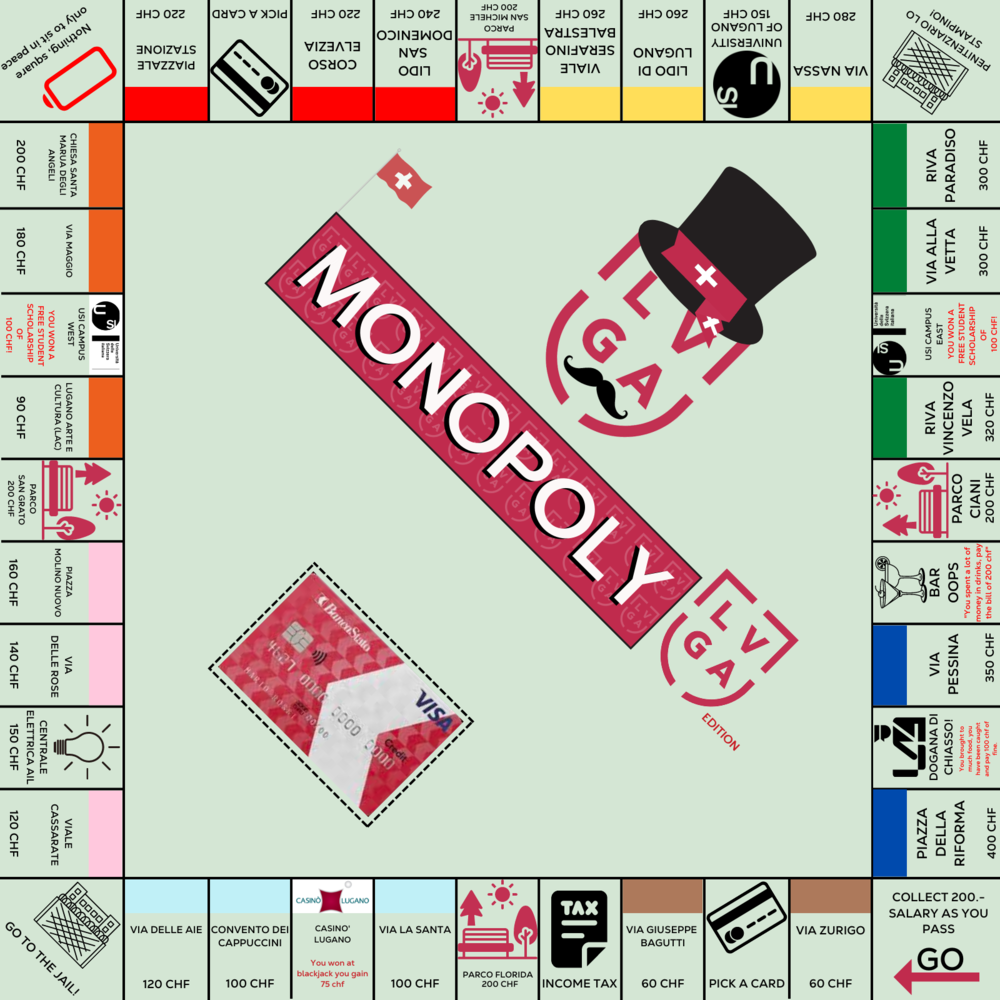
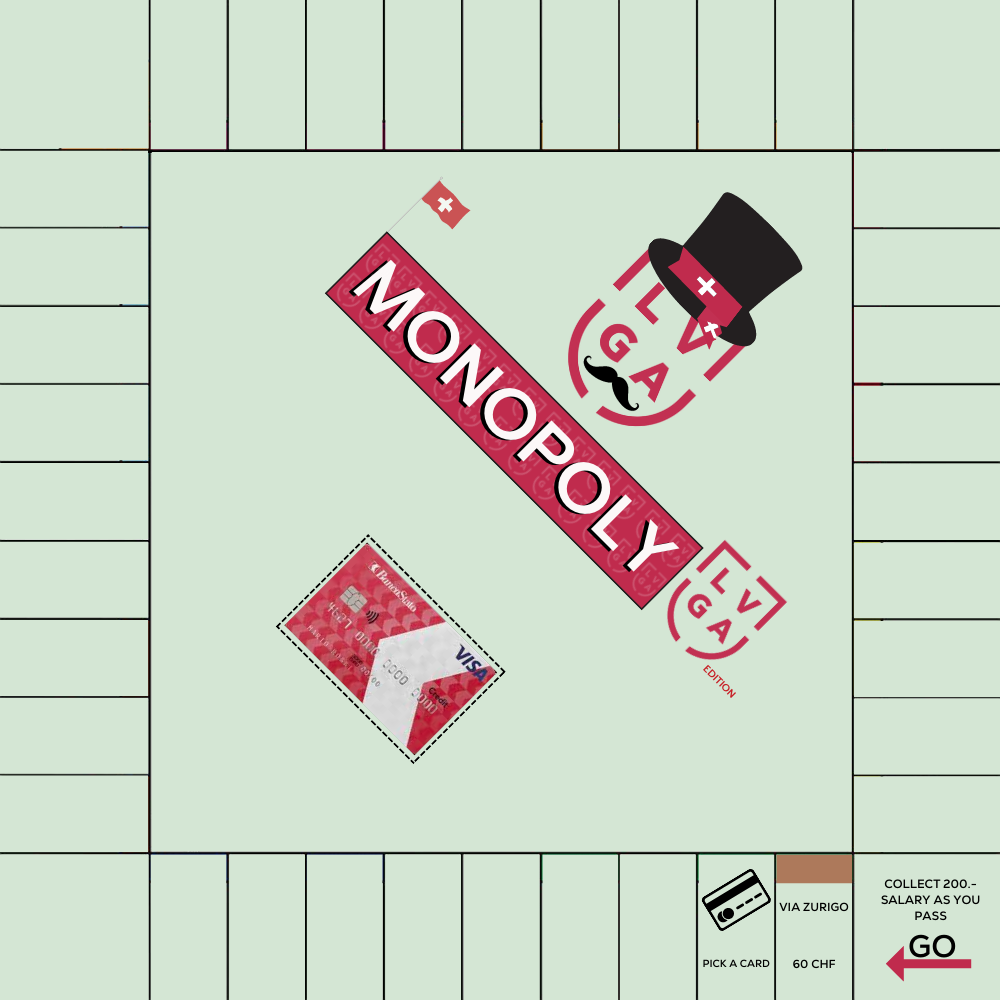
adjusted bug in tui and added map for gui

Changed region(s): [[0.0, 0.0, 1.0, 1.0]]

diff --git a/src/gui/GridPosition.java b/src/gui/GridPosition.java
@@ -1,0 +1,75 @@
+package gui;
+
+import java.util.Hashtable;
+
+import gui.main.GameMain;
+import model.*;
+public class GridPosition {
+
+
+    private Hashtable<Position, Square> grid = new Hashtable<Position, Square>();
+
+    private Monopoly monopoly = GameMain.monopoly;
+
+    public GridPosition(){
+
+
+    }
+
+
+
+    public void setGrid(){
+
+        grid.put(new Position(909,909), monopoly.getTable().getSquare(0));
+        grid.put(new Position(800, 909), monopoly.getTable().getSquare(1));
+        grid.put(new Position(720, 909), monopoly.getTable().getSquare(2));
+        grid.put(new Position(640, 909), monopoly.getTable().getSquare(3));
+        grid.put(new Position(565, 909), monopoly.getTable().getSquare(4));
+        grid.put(new Position(485, 909), monopoly.getTable().getSquare(5));
+        grid.put(new Position(410, 909), monopoly.getTable().getSquare(6));
+        grid.put(new Position(330, 909), monopoly.getTable().getSquare(7));
+        grid.put(new Position(250, 909), monopoly.getTable().getSquare(8));
+        grid.put(new Position(170 , 909), monopoly.getTable().getSquare(9));
+        grid.put(new Position(65, 909), monopoly.getTable().getSquare(10));
+        grid.put(new Position(65, 808), monopoly.getTable().getSquare(11));
+        grid.put(new Position(65, 720), monopoly.getTable().getSquare(12));
+        grid.put(new Position(65, 640), monopoly.getTable().getSquare(13));
+        grid.put(new Position(65, 565), monopoly.getTable().getSquare(14));
+        grid.put(new Position(65, 485), monopoly.getTable().getSquare(15));
+        grid.put(new Position(65, 410), monopoly.getTable().getSquare(16));
+        grid.put(new Position(65, 330), monopoly.getTable().getSquare(17));
+        grid.put(new Position(65, 250), monopoly.getTable().getSquare(18));
+        grid.put(new Position(65, 170), monopoly.getTable().getSquare(19));
+        grid.put(new Position(65, 65), monopoly.getTable().getSquare(20));
+        grid.put(new Position(170, 65), monopoly.getTable().getSquare(21));
+        grid.put(new Position(250, 65), monopoly.getTable().getSquare(22));
+        grid.put(new Position(330, 65), monopoly.getTable().getSquare(23));
+        grid.put(new Position(410, 65), monopoly.getTable().getSquare(24));
+        grid.put(new Position(485, 65), monopoly.getTable().getSquare(25));
+        grid.put(new Position(565, 65), monopoly.getTable().getSquare(26));
+        grid.put(new Position(640, 65), monopoly.getTable().getSquare(27));
+        grid.put(new Position(720, 65), monopoly.getTable().getSquare(28));
+        grid.put(new Position(800, 65), monopoly.getTable().getSquare(29));
+        grid.put(new Position(909, 65), monopoly.getTable().getSquare(30));
+        grid.put(new Position(909, 170), monopoly.getTable().getSquare(31));
+        grid.put(new Position(909, 250), monopoly.getTable().getSquare(32));
+        grid.put(new Position(909, 330), monopoly.getTable().getSquare(33));
+
+        grid.put(new Position(909, 410), monopoly.getTable().getSquare(34));
+        grid.put(new Position(909, 485), monopoly.getTable().getSquare(35));
+        grid.put(new Position(909, 565), monopoly.getTable().getSquare(36));
+        grid.put(new Position(909, 640), monopoly.getTable().getSquare(37));
+        grid.put(new Position(909, 720), monopoly.getTable().getSquare(38));
+        grid.put(new Position(909, 808), monopoly.getTable().getSquare(39));
+
+
+
+    }
+
+
+
+
+
+
+    
+}

diff --git a/src/gui/MonopolyGridPanel.java b/src/gui/MonopolyGridPanel.java
@@ -3,20 +3,53 @@ package gui;
 import javax.swing.JPanel;
 
 import gui.main.GameMain;
+import model.Player;
 
 import java.awt.Graphics2D;
 import java.awt.Image;
+import java.awt.Shape;
+import java.awt.Color;
 import java.awt.Graphics;
+import java.awt.event.*;
+
+import javax.swing.Action;
 import javax.swing.ImageIcon;
 
-public class MonopolyGridPanel extends JPanel {
+import javax.swing.Timer;
+import javax.swing.text.Position;
+
+public class MonopolyGridPanel extends JPanel  implements ActionListener{
+
+
+    
+    private int casella;
+    
+    private movement move = new movement(); 
+
+    private Timer timer;
+	private int xVelocity = 1;
+	private int yVelocity = 1;
+	private int x = 909 ;
+    // 909
+	private int y = 808 ;
+    // 909
+    private int step;
+	private Position pos;
+
 
 
     Image backgroundImage;
 
     public MonopolyGridPanel() {
         backgroundImage = new ImageIcon("/home/paperino/Desktop/project-monopoly-dinasty/src/gui/images/monopolygrid1000.png").getImage();
+        // timer  = new Timer();
+        // add(move);
 
+        // setStep(2);
+        // timer = new Timer(5, this);
+		// timer.start();
+        
+       
         
 
     }
@@ -27,14 +60,98 @@ public class MonopolyGridPanel extends JPanel {
         Graphics2D pan = (Graphics2D) g;
 
 
-        // Image img = backgroundImage.getScaledInstance(924  , 1664, Image.SCALE_SMOOTH);
         pan.drawImage(backgroundImage,0 ,0 , null);
 
+
         pan.setPaint(GameMain.AZZURRO);
-        pan.fillOval(10,10 , 30, 30);
+        pan.fillOval(x,y , 30, 30);
+
+
+    }
+
+
+
+    public void setPlayerPosition(Player player){
+            
+        casella = player.getPosition();
+
+    }
+
+    public void setStep(int i){
+        // step = 45*i;
+
+        // step = i * -76;
+        //  -61 - 15
+        step = i * 76;
+        step = step - 30;
+
+    }
+
+
+    @Override
+    public void actionPerformed(ActionEvent arg0) {
+        
+
 
         
+        if(y== 61 && x <  909){
+            
+            if (x != step){
+                // step = step - x;
+                xVelocity = 1;
+                x = x + xVelocity;
+                repaint();
+            }
+        } 
+
+        if(x == 909 && y < 909){
+           
+            if (y != step){
+                // step = step - y;
+                yVelocity = 1;
+                y = y + yVelocity;
+                repaint();
+            }
+        }
+
+
+
+        if( y == 909  && x > 61)
+        {
+            
+            if(x != step){
+                // step = step - x;
+                xVelocity = -1;
+                x = x + xVelocity;
+                repaint();
+            }
+        }
+
+        if ( x == 61 && y > 61){
+            // step = step - y;
+            if(y != step){
+                // step = step - x;
+                yVelocity = -1;
+                y = y + yVelocity;
+                repaint();
+            }
+        }
+
+        
+
+
+
+
+
+        
+
+
+
+		// repaint();
     }
+
+
+
 
 
 

diff --git a/src/gui/movement.java b/src/gui/movement.java
@@ -1,0 +1,75 @@
+package gui;
+
+import java.awt.*;
+
+import javax.swing.*;
+
+import gui.main.GameMain;
+import model.Player;
+
+import java.awt.event.*;
+import javax.swing.*;
+
+public class movement extends JPanel implements ActionListener{
+
+
+
+	Timer timer;
+	int xVelocity = 1;
+	int yVelocity = 1;
+	int x = 0;
+	int y = 0;
+	
+	public movement(){
+        super();
+
+        // setBackground( getParent().getBackground());
+		this.setPreferredSize(new Dimension(1000,1000));
+		// this.setBackground(Color.black);
+		// enemy = new ImageIcon("enemy.png").getImage();
+        // enemy = new PieceColor(new Player("isa"));
+
+		//backgroundImage = new ImageIcon("space.png").getImage();
+		timer = new Timer(10, this);
+		timer.start();
+        // setOpaque(true);
+        // setBackground(new Color(0,0,0,0));
+        // setBackground(Color.);
+        // timer.start();
+
+	}
+
+	public void paint(Graphics g) {
+		
+		// super.paint(g); // paint background
+        
+        
+		Graphics2D map = (Graphics2D) g;
+        
+        
+        
+		
+		//g2D.drawImage(backgroundImage, 0, 0, null);
+		// g2D.drawImage(enemy, x, y, null);
+        
+        map.setPaint(Color.RED);
+        map.fillOval(x, y, 50, 50);
+
+	}
+	
+	@Override
+	public void actionPerformed(ActionEvent e) {
+		
+		// if(x>=PANEL_WIDTH-enemy.getWidth(null) || x<0) {
+		// 	xVelocity = xVelocity * -1;
+		// // }
+		x = x + xVelocity;
+      
+		repaint();
+        // timer.start();
+	}
+
+
+
+
+}

diff --git a/src/tui/Main.java b/src/tui/Main.java
@@ -244,6 +244,8 @@ public class Main {
                     System.out.println("You paid 50 chf, you can throw the dice");
 
                     monopoly.throwDice();
+                    System.out.println("Your dice made: " + monopoly.die1() + " and " + monopoly.die2());
+                    System.out.println("Go forward by: " + (monopoly.die1() + monopoly.die2()));
 
                     if (monopoly.checkbankruptStatus(player)) {
                         System.out.println("\n You do not have enough money to pay the fi");
@@ -799,6 +801,7 @@ public class Main {
             turn = turn % monopoly.getSizeOfPlayers();
 
             System.out.println(monopoly.getPLayer(turn).getNickname() + " e' il tuo turno! \n");
+
 
             if (monopoly.getPLayer(turn).getTurnsInJail() == -1) {
 

diff --git a/src/gui/main/GameMain.java b/src/gui/main/GameMain.java
@@ -36,6 +36,7 @@ public class GameMain extends JFrame {
     private int status = 0;
 
     private CardLayout mainframe = new CardLayout();
+    
     ImageIcon img = new ImageIcon("src/gui/images/icon.png");
 
     // private JFrame frame = new JFrame("Monopoly Lugano");
@@ -52,8 +53,8 @@ public class GameMain extends JFrame {
         // clayout = new CLayout(this);
         // add(clayout);
 
-        preGame();
-        // mainGame();
+        // preGame();
+        mainGame();
         this.pack();
         this.setVisible(true);
 

diff --git a/src/gui/Position.java b/src/gui/Position.java
@@ -1,0 +1,20 @@
+package gui;
+
+public class Position {
+    
+    private int x;
+    private int y;
+
+    public Position(int x, int y){
+        this.x = x;
+        this.y = y;
+    }
+
+
+    public int getX() {
+        return x;
+    }
+    public int getY() {
+        return y;
+    }
+}
